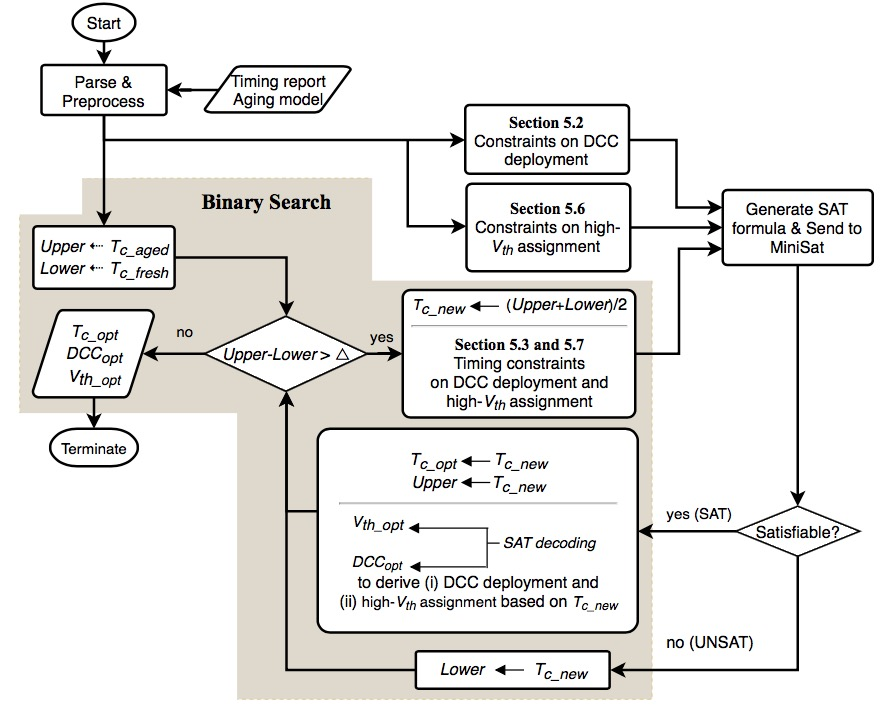
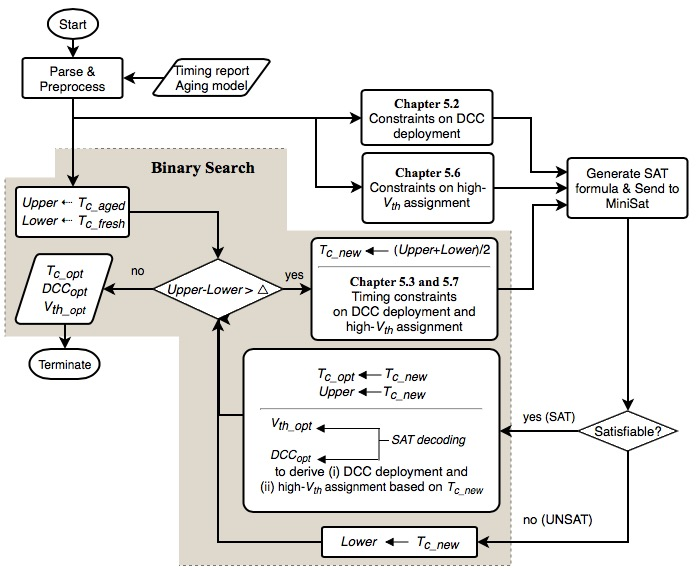
18/9/20 Add cover, first page, synchro with TODAES and revise flow_chart.png: section=>chapter

Changed region(s): [[0.0, 0.0, 0.9943, 1.0]]

diff --git a/chapters/introduction.tex b/chapters/introduction.tex
@@ -10,6 +10,6 @@ In addition to the aging effect on the logic gates/paths of a circuit, the impac
 
 %4 MAUI DATE 2018
 %Then think about the following question: if one has to work hard on (and incur significant overhead for) minimizing aging-induced clock skews but it turns out that there still exist stubborn non-zero skews, why don't we try to take advantage of them? We do; we propose to intentionally make aging-induced clock skews useful for aging tolerance. More specifically, we compensate for the performance degradation (due to aging) of logic networks by exploring \enquote{useful} aging-induced clock skews, based on the concept of time borrowing. Note that the rate of aging depends on the stress time, defined as the amount of time during which a PMOS/NMOS transistor is stressed under negative/positive bias. For clock drivers (comprising pairs of inverters), their stress times are proportional to the duty cycle of the clock signal. The principle of our framework is to manipulate the rates of aging on different clock branches, by changing the duty cycle of a clock waveform delivered to each of the clock branches. The proposed framework succeeds in mitigating effective aging-induced performance degradation with little design penalty.
-Since such work incurs significant overhead and turns out to remain stubborn non-zero skews, why don't we try to take advantage of them? We do; we propose to intentionally make aging-induced clock skews useful for aging tolerance. More specifically, we compensate for the performance degradation (due to aging) of logic networks by exploring \enquote{useful} aging-induced clock skews, based on the concept of time borrowing. Note that the rate of aging depends on the stress time, defined as the amount of time during which a PMOS/NMOS transistor is stressed under negative/positive bias. For clock drivers (comprising pairs of inverters), their stress times are proportional to the duty cycle of the clock signal. The principle of our framework is to manipulate the rates of aging on different clock branches, by changing the duty cycle of a clock waveform delivered to each of the clock branches. The proposed framework succeeds in mitigating effective aging-induced performance degradation with little design penalty.
+Since such work incurs significant overhead and turns out to remain stubborn non-zero skews, why don't we try to take advantage of them? We do; we propose to intentionally make aging-induced clock skews useful for aging tolerance. More specifically, we compensate for the performance degradation (due to aging) of logic networks by exploring/recycling \enquote{useful} aging-induced clock skews, based on the concept of time borrowing. Note that the rate of aging depends on the stress time, defined as the amount of time during which a PMOS/NMOS transistor is stressed under negative/positive bias. For clock drivers (comprising pairs of inverters), their stress times are proportional to the duty cycle of the clock signal. The principle of our framework is to manipulate the rates of aging on different clock branches, by changing the duty cycle of a clock waveform delivered to each of the clock branches. The proposed framework succeeds in mitigating effective aging-induced performance degradation with little design penalty.
 
-Also, we incorporate the idea of $V_{th}$ assignment in our framework to explore more useful clock skews for aging tolerance. More specifically, the threshold voltage of certain clock buffers/drivers are assigned the other specific value. Consequently, the delay of such clock buffers are changed, so are the clock latencies (from clock source to flip-flops). In this paper, the two ideas of (i) aging rate manipulation and (ii) $V_{th}$ assignment are jointly integrated to recycle useful aging-induced clock skews in the clock network, such that aging-induced performance degradation can be tolerated effectively.
+Also, we incorporate the idea of $V_{th}$ assignment in our framework to explore more useful clock skews for aging tolerance. More specifically, the threshold voltage of certain clock buffers/drivers are assigned the other specific value. Consequently, clock latencies (from clock source to flip-flops) are changed, such that useful clock skew can be obtained. In this paper, the two ideas of (i) aging rate manipulation and (ii) $V_{th}$ assignment are jointly integrated to recycle useful aging-induced clock skews in the clock network, such that aging-induced performance degradation can be tolerated effectively.

diff --git a/chapters/related.tex b/chapters/related.tex
@@ -4,7 +4,7 @@
 \label{subsec:rw}
 To deal with aging phenomena, traditional design methods adopt guard-banding by adding extra timing margins, which in practice imply over-design and may be expensive. To avoid overly conservatism, the mitigation of aging-induced performance degradation can be formulated as a timing-constrained area minimization problem with consideration of aging effects. Existing aging-aware techniques basically follow this formulation. A novel technology mapper considering signal probabilities for NBTI was developed in~\cite{kumar2007nbti}. On average, 10\% area recovery and 12\% power saving are accomplished, as compared to the most pessimistic case assuming static NBTI on all PMOS transistors in the design. The authors of~\cite{paul2006temporal} proposed a gate sizing algorithm based on Lagrangian relaxation. An average of 8.7\% area penalty is required to ensure reliable operation for 10 years. Other methods related to gate or transistor sizing can be found in~\cite{wang2007efficient, yang2007combating}.
 
-Aforementioned research work focus on mitigating the aging of logic networks only. There are some studies~\cite{huang2013low, chakraborty2013skew,chen2013novel} addressing the aging problem of clock networks. Methodology of~\cite{chen2013novel} is based on $V_{th}$ assignment for clock buffers. The authors of ~\cite{huang2013low} and ~\cite{chakraborty2013skew} explore the use of alternative clock gating cells for clock-gated designs. On the other hand, two new clock gating cells were presented in~\cite{lai2014bti} to balance the delay degradation of clock signal propagation, which reduces aging-induced clock skews between ungated and gated clock branches. However, the studies~\cite{huang2013low, chakraborty2013skew,chen2013novel,lai2014bti} aim to minimize aging-induced clock skews instead of making it useful.
+Aforementioned research work focus on mitigating the aging of logic networks only. There are some studies~\cite{huang2013low, chakraborty2013skew,chen2013novel} addressing the aging problem of clock networks. The methodology of~\cite{chen2013novel} is based on $V_{th}$ assignment for clock buffers. The authors of ~\cite{huang2013low, chakraborty2013skew} explore the use of alternative clock gating cells for clock-gated designs. On the other hand, two new clock gating cells were presented in~\cite{lai2014bti} to balance the delay degradation of clock signal propagation, which reduces aging-induced clock skews between ungated and gated clock branches. However, the studies~\cite{huang2013low, chakraborty2013skew,chen2013novel,lai2014bti} aim to minimize aging-induced clock skews instead of making them useful.
 %Aforementioned methods focus on mitigating the aging of logic networks only. To address the aging problem of clock networks,~\cite{chen2013novel, huang2013low, chakraborty2013skew} aim to minimize aging-induced clock skews by balancing the aging effects on various clock sub-networks. While~\cite{chen2013novel} is based on $V_{th}$ assignment for clock buffers,~\cite{huang2013low},~\cite{chakraborty2013skew} explore the use of alternative clock gating cells for clock-gated designs. On the other hand, two new clock gating cells were presented in~\cite{lai2014bti} to balance the delay degradation of clock signal propagation, which reduces aging-induced clock skews between ungated and gated clock branches.
 
 \subsection{Paper Contribution}

diff --git a/chapters/exp.tex b/chapters/exp.tex
@@ -42,7 +42,7 @@ As mentioned in Section~\ref{sec:framework}, inserting DCCs deep in the clock tr
 \input{figures/plot_Tc}
 It is worth reminding that, the proposed framework is based on a binary search for optimized clock period $T_{c}$, with initial two bounds of $T_{c}$ (see Section~\ref{sec:framework} or Figure~\ref{fig:flow}). During the iterations of binary search, the two bounds of $T_{c}$ are calibrated toward a convergent value, based on the satisfiability of the SAT problem, which the problem of DCC deployment and leader selection is formulated as.
 
-Figure~\ref{fig:Tc} shows the calibrations of the two bounds of $T_{c}$ for benchmark $leo3mp$, during iterations of binary search. The X-axis denotes the iteration times of binary search and Y-axis denotes the upper (red line) and lower bounds (blue line) of $T_{c}$. In the 1\textsuperscript{st} iteration of binary search, the upper bound and lower bound are set to 4.24ns and 3ns, respectively. Then, we use the mean value of two bounds (i.e., 3.62ns) to generate the associated CNF clauses based on timing constraints. The CNF clauses are satisfiable from the output of SAT solver, implying that we can explore more lower clock period (i.e., better aging tolerance) by moving the upper bound to 3.62ns, such that the resulting upper and lower bounds are 3.62ns and 3ns, respectively. Then, in the 2\textsuperscript{ed} iteration, we use the mean value of two bounds (i.e., 3.31ns) to generate associated CNF clauses, which are unsatisfiable from the output of SAT solver, implying the clock period 3.31ns is too low, such that we move the lower bound to 3.31ns. In this manner, the upper and lower bounds will converge toward 3.4061ns. The convergent value of 3.406ns is the optimized clock period for aging tolerance.
+Figure~\ref{fig:Tc} shows the calibrations of the two bounds of $T_{c}$ for benchmark $leo3mp$, during iterations of binary search. The X-axis denotes the iteration times of binary search and Y-axis denotes the upper (red line) and lower bounds (blue line) of $T_{c}$. In the 1\textsuperscript{st} iteration of binary search, the upper bound and lower bound are set to 4.24ns and 3ns, respectively. Then, we use the mean value of two bounds (i.e., 3.62ns) to generate the associated CNF clauses based on timing constraints. The CNF clauses are satisfiable from the output of SAT solver, implying that we can explore more lower clock period (i.e., better aging tolerance) by moving the upper bound to 3.62ns, such that the resulting upper and lower bounds are 3.62ns and 3ns, respectively. Then, in the 2\textsuperscript{ed} iteration, we use the mean value of two bounds (i.e., 3.31ns) to generate associated CNF clauses, which are unsatisfiable from the output of SAT solver, implying the clock period 3.31ns is too low, such that we move the lower bound to 3.31ns. In this manner, the upper and lower bounds will converge toward 3.4061ns. The convergent value of 3.4061ns is the optimized clock period for aging tolerance.
 
 As observed in Figure~\ref{fig:Tc}, we totally use 14 iterations of binary search to reach the convergent value of $T_{c}$, with the accuracy of third digit below the decimal point. If we degrade the accuracy from the third digit to the second digit, we only need 8 iterations. In this manner, we can nearly save half of the runtime. 
 \subsection{Discussion: Clause count variations during binary search}

diff --git a/chapters/framework.tex b/chapters/framework.tex
@@ -35,6 +35,7 @@ Without loss of generality, we assume $N$ = 3. Thus, there are three types of DC
   (4)\quad & 80\% &  \{1, 1\} \\
 \end{tabular}}
 \input{figures/example_dcc}
+
 For example, in Figure~\ref{fig:sub:dcci2}, a 20\% DCC and an 80\% DCC are inserted at buffer 3 and buffer 5, respectively. Therefore, {\fontsize{9}{10}{$\left\{B_{3,2}, B_{3,1}\right\}$ = \{0, 1\}}}, {\fontsize{9}{10}{$\left\{B_{5,2}, B_{5,1}\right\}$ = \{1, 1\}}}, and {\fontsize{9}{10}{$\left\{B_{p,2}, B_{p,1}\right\}$ = \{0, 0\}}} for $p$ = 1, 2, 4 , 6 or 7.
 
 The 20\% DCC will mitigate the aging of buffer 3 and its downstream buffers, while the 80\% DCC will aggravate the aging of buffer 5 and its downstream buffers. It can be found that, if a DCC is deployed deep in the clock tree (i.e., close to the flip-flops), the count of affected buffers is limited and thus the overall impact of aging mitigation/aggravation on $C_i$/$C_j$ may be insignificant, diminishing the benefit from deploying DCCs for aging tolerance.  To avoid the phenomena, we set a rule of prohibiting DCC deployment at a clock tree level larger/deeper than a specified boundary. This rule also greatly reduces the complexity of our SAT-based formulation because a significant fraction of buffers are excluded from being considered inserted DCC at their inputs. For example, in Figure~\ref{fig:dcctype}, those dashed buffers and their downstream buffers are excluded. 
@@ -134,11 +135,13 @@ This class targets buffers 2, 3, 4, 5, 6, 7. If the insertion of a 20\% DCC at b
 Given the DCC deployment in Figure~\ref{fig:sub:dcci2} (a 20\% DCC inserted at buffer 3 and a 80\% DCC inserted at buffer 5), if it causes a timing violation along the aging-critical path within 10 years, then the Boolean representation of the deployment,
 {\fontsize{9}{10}
 \begin{gather*}
-\left(\{B_{3,2}, B_{3,1}\} \equiv \{0, 1\} \right) \land \left( \{B_{5,2}, B_{5,1}\} \equiv \{1, 1\} \right),
+\left(\{B_{1,2}, B_{1,1}\} \equiv \{0, 0\} \right) \land \left(B_{2,2}, B_{2,1}\} \equiv \{0, 0\} \right) \land \left(\{B_{3,2}, B_{3,1}\} \equiv \{0, 1\} \right) \\ 
+\land \left( \{B_{4,2}, B_{4,1}\} \equiv \{0, 0\} \right) \land \left(\{B_{5,2}, B_{5,1}\} \equiv \{1, 1\} \right) \land \left( \{B_{6,2}, B_{6,1}\} \equiv \{0, 0\} \right)\\
+\land \left( \{B_{7,2}, B_{7,1}\} \equiv \{0, 0\} \right),
 \end{gather*}}equivalent to the following CNF clause,
 {\fontsize{9}{10}
 \begin{gather*}
-\left(B_{3,2} \lor \neg B_{3,1} \lor \neg B_{5,2} \lor \neg B_{5,1} \right), 
+(B_{1,2} \lor B_{1,1} \lor B_{2,2} \lor B_{2,1} \lor B_{3,2}  \lor \neg B_{3,1} \lor B_{4,2} \lor B_{4,1} \lor \neg B_{5,2} \lor \neg B_{5,1} \lor B_{6,2} \lor B_{6,1} \lor B_{7,2} \lor B_{7,1} )
 \end{gather*}}should be generated such that the solver will not output the deployment in the result if the CNF is satisfiable.
 
 Class 3 considers two buffer locations to insert DCCs, one among buffers \{2, 3, 4\} and the other one among buffers \{5, 6, 7\}; thus, there are totally 9 combinations of buffer locations. Each combination includes two buffers and thus 9 possibilities of choosing one specific DCC for each of the two buffers. Therefore, a total of 81 CNF clauses will be generated in the worst case.

diff --git a/chapters/preliminary.tex b/chapters/preliminary.tex
@@ -22,7 +22,7 @@ Next, as previously indicated in~\cite{wang2010impact, gomez2016early} , the var
 	\Delta V_{th\_bti} = (1 - S_{v} \cdot \Delta V_{th\_fresh})  \cdot A \cdot \alpha^n \cdot t^n
 	\label{eq:cor}
 \end{equation}
-where $\Delta V_{th\_fresh}$ is the fresh $V_{th}$ offset (e.g., the offset between high $V_{th}$ and nominal $V_{th}$) at time 0, $A$ is $3.9 \times 10^{-3} V \cdot s^{-1/5}$ and $S_{v}$ is the sensitivity factor extracted by fitting HSPICE simulation results in 45nm, Predictive Technology Model (PTM).
+where $\Delta V_{th\_fresh}$ is the fresh $V_{th}$ offset (e.g., the offset between high $V_{th}$ and nominal $V_{th}$ at time 0), $A$ is $3.9 \times 10^{-3} V \cdot s^{-1/5}$ and $S_{v}$ is the sensitivity factor extracted by fitting HSPICE simulation results in 45nm, Predictive Technology Model (PTM).
 Finally, the rising/falling propagation delay of a gate through the degraded P-type/N-type MOSFET can be derived as a first-order approximation:
 \begin{equation}
 	\label{eq:pd}

diff --git a/chapters/motivate.tex b/chapters/motivate.tex
@@ -2,7 +2,7 @@
 \label{sec:motivate}
 \input{figures/example_notation}
 
-This section introduces the example of motivating our idea of making aging useful. In Section~\ref{sec:mot:exp1}, we explore and recycle the useful aging-induced clock skew by manipulating the aging behaviors of clock paths. In Section~\ref{sec:mot:exp2}, high-$V_{th}$ assignment for clock buffers is incorporated to further enhance the benefit of aging-induced clock skews for aging tolerance. 
+This section introduces the example of motivating our idea of making aging useful. In Section~\ref{sec:mot:exp1}, we explore and recycle the useful aging-induced clock skew by manipulating the aging rates of clock paths. In Section~\ref{sec:mot:exp2}, high-$V_{th}$ assignment for clock buffers is incorporated to further enhance the benefit of aging-induced clock skews for aging tolerance. 
 
 \subsection{Manipulating Aging Rates of Clock Paths}
 \label{sec:mot:exp1}
